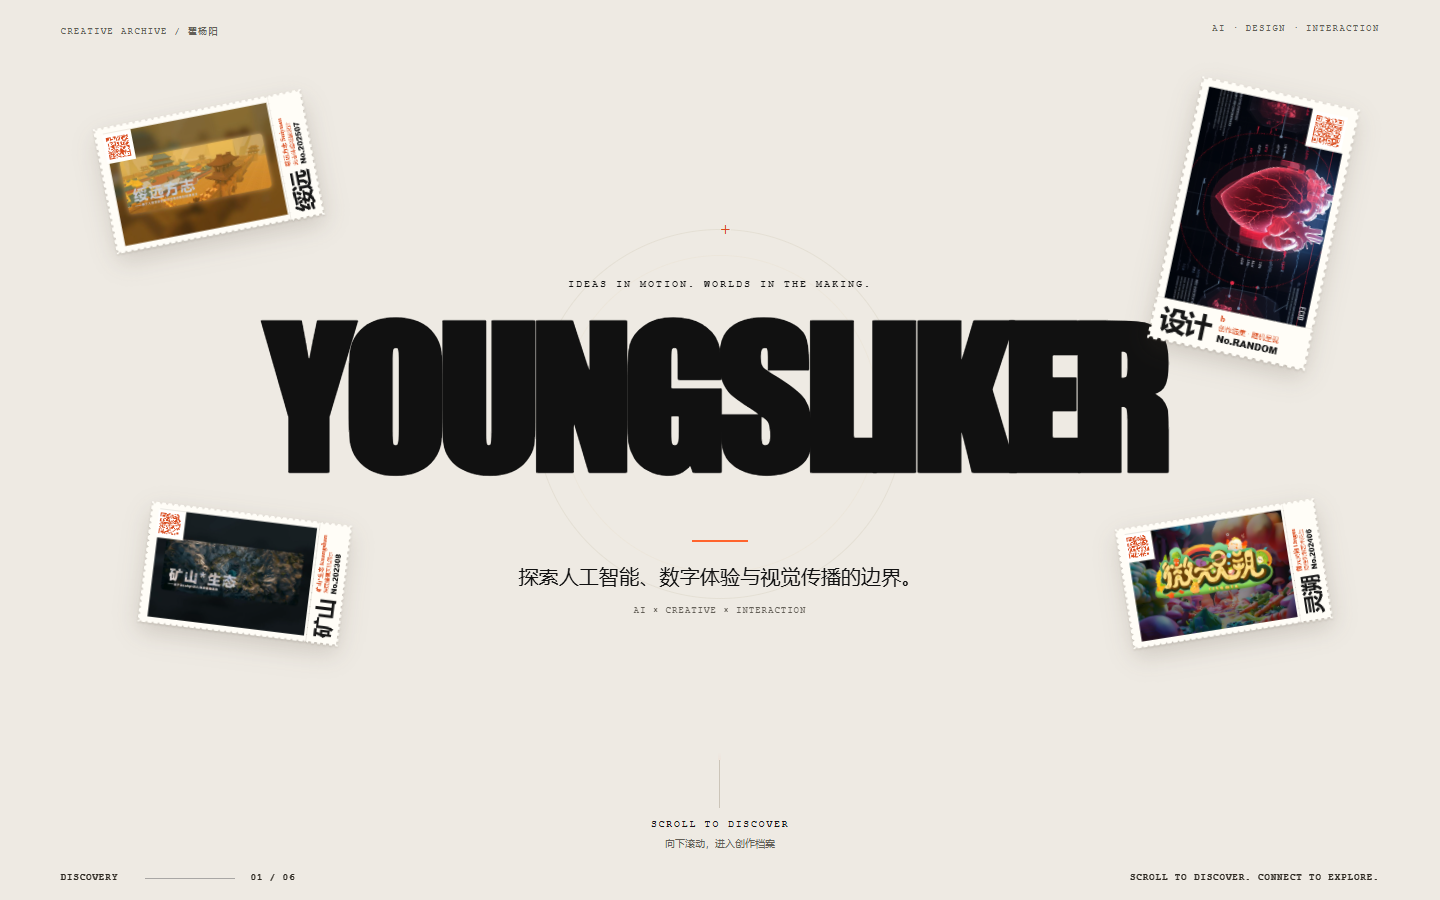
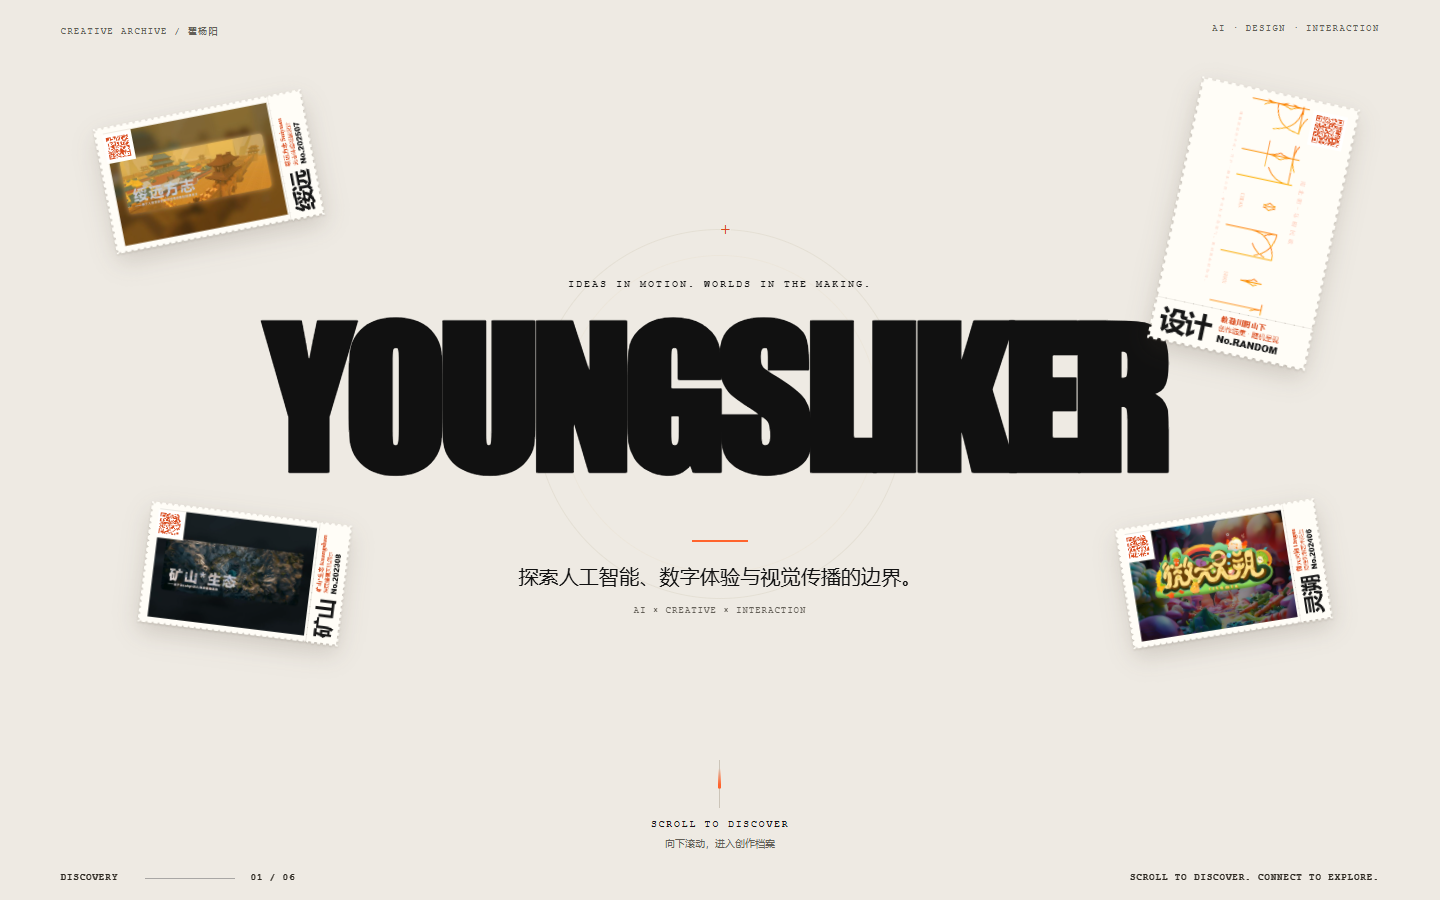
揉碎增强

Changed region(s): [[0.8125, 0.0933, 0.9375, 0.3733]]

diff --git a/New/js/components/RandomArtworkTicket.tsx b/New/js/components/RandomArtworkTicket.tsx
@@ -69,7 +69,9 @@ export function RandomArtworkTicket({works,initial}:{works:RandomWork[];initial:
           await api.image(await snapshot(live.current!));
           if(disposed||!eligible())return;
           flushSync(()=>setBusy(true));
-          if(!await api.fold(.88)||disposed)return;
+          if(!await api.fold(1)||disposed)return;
+          await wait(350);
+          if(disposed)return;
           if(!inView||document.hidden)return;
           current.current=next;flushSync(()=>setWork(next));
           await api.image(await snapshot(live.current!));
@@ -89,8 +91,8 @@ export function RandomArtworkTicket({works,initial}:{works:RandomWork[];initial:
     </div>
     {texture&&!reduced&&!failed&&<div className="random-artwork__fold" aria-hidden="true">
       <PaperCrumple src={texture} autoRef={control} onReady={()=>setReady(true)} onError={()=>setFailed(true)}
-        width={280} height={464} sceneHeight="100%" inset={0} detail={40} foldCount={6}
-        crumpleDuration={.55} releaseDuration={.45} paperColor="#fffdf7" draggable={false} disabled
+        width={280} height={464} sceneHeight="100%" inset={0} detail={64} foldCount={8} foldSharpness={.35}
+        crumpleDuration={.8} releaseDuration={.65} paperColor="#fffdf7" draggable={false} disabled
         imageFit="contain" shadow={false} paperTexture={.06}/>
     </div>}
   </div>;

diff --git a/New/js/tests/random-ticket.spec.ts b/New/js/tests/random-ticket.spec.ts
@@ -14,7 +14,7 @@ for(const width of [1440,375]) {
   const fixed=await page.locator('.hero-card:not(.hero-card--2) .tear-ticket__image').evaluateAll(imgs=>imgs.map(img=>(img as HTMLImageElement).src));
   await page.screenshot({path:`docs/screenshots/random-flat-${width}.png`});
   await expect(random).toHaveAttribute('data-changing','true',{timeout:12000});
-  await expect.poll(async()=>Number(await random.locator('.paper-crumple').getAttribute('data-fold'))).toBeGreaterThan(.5);
+  await expect.poll(async()=>Number(await random.locator('.paper-crumple').getAttribute('data-fold'))).toBeGreaterThan(.99);
   await page.screenshot({path:`docs/screenshots/random-crumpled-${width}.png`});
   await expect(random).not.toHaveAttribute('data-work',old!,{timeout:10000});
   await expect(random).toHaveAttribute('data-changing','false',{timeout:10000});

diff --git a/New/js/components/PaperCrumple.jsx b/New/js/components/PaperCrumple.jsx
@@ -210,7 +210,8 @@ function createPaperPath(rest, triangles, shortSide, density, sharpness, depth, 
         }
       }
       constrain(edges, 3, 1, pass % 2 !== 0);
-      if (pass === 8 || pass === 17) separateLayers();
+      // Resolve collisions throughout compression, before folds can cross deeply.
+      if (pass % 3 === 2) separateLayers();
     }
     for (let h = 0; h < hinges.length; h += 4) {
       const a = hinges[h],
